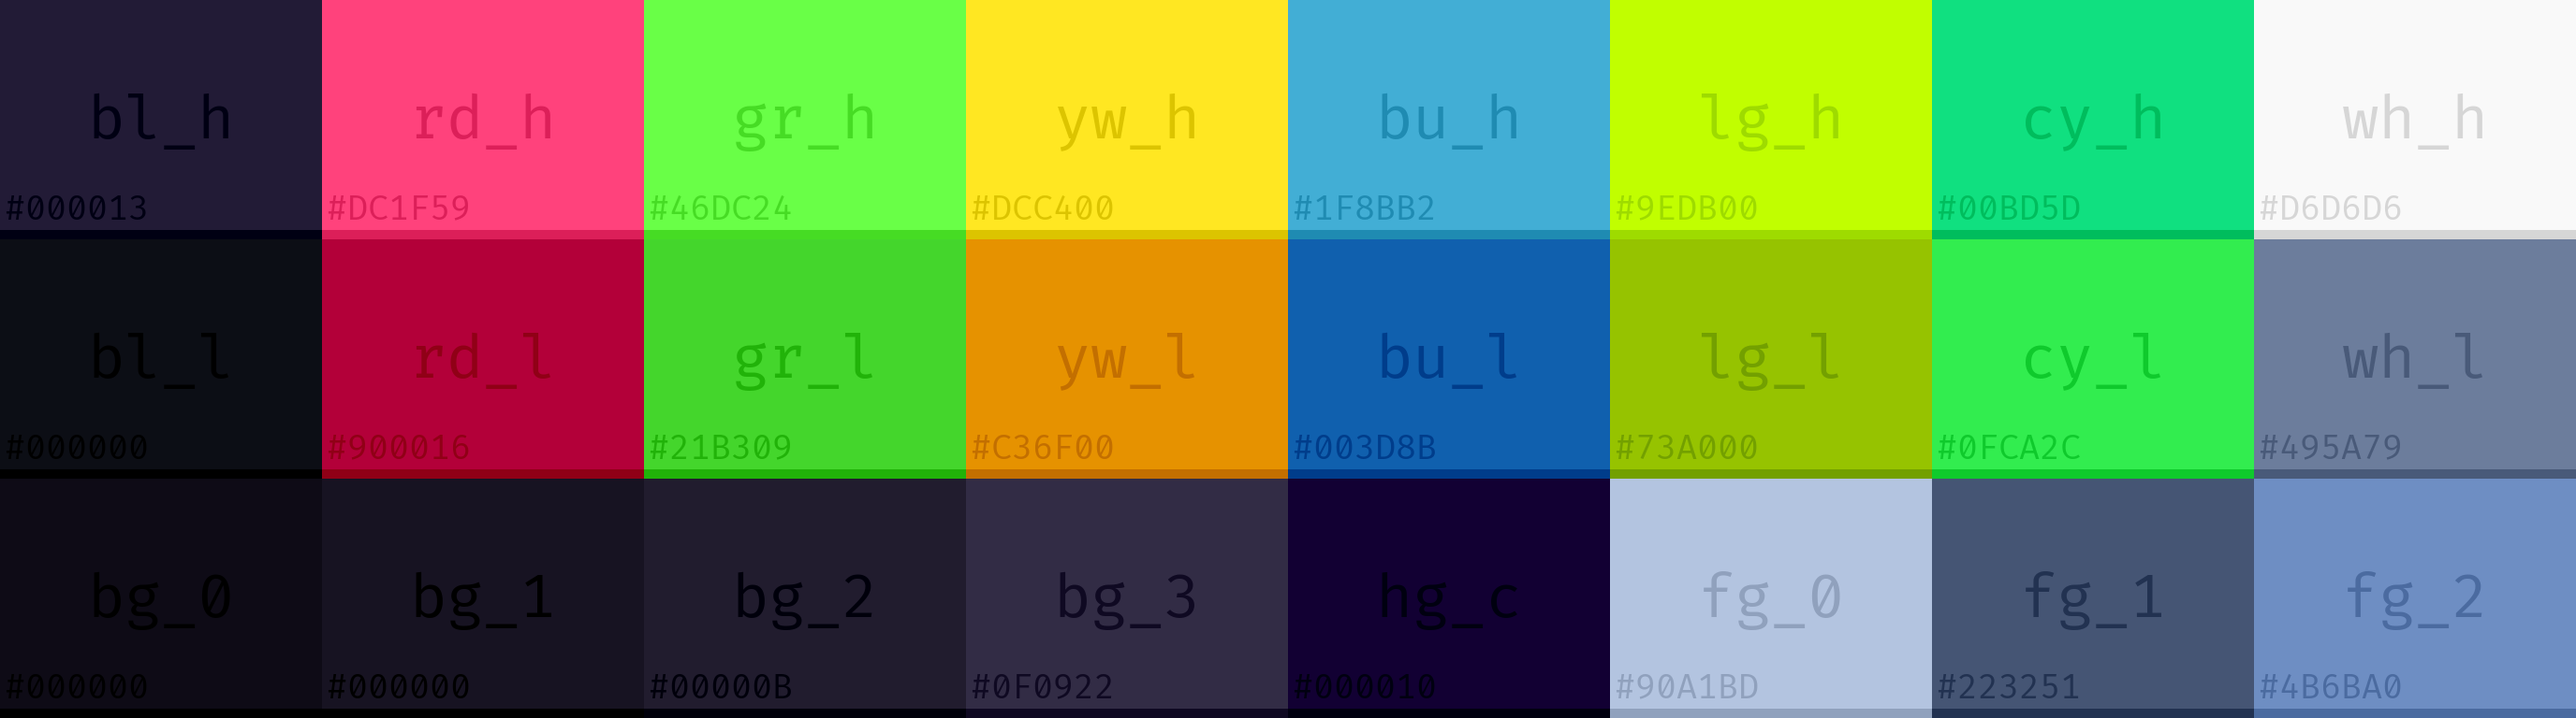
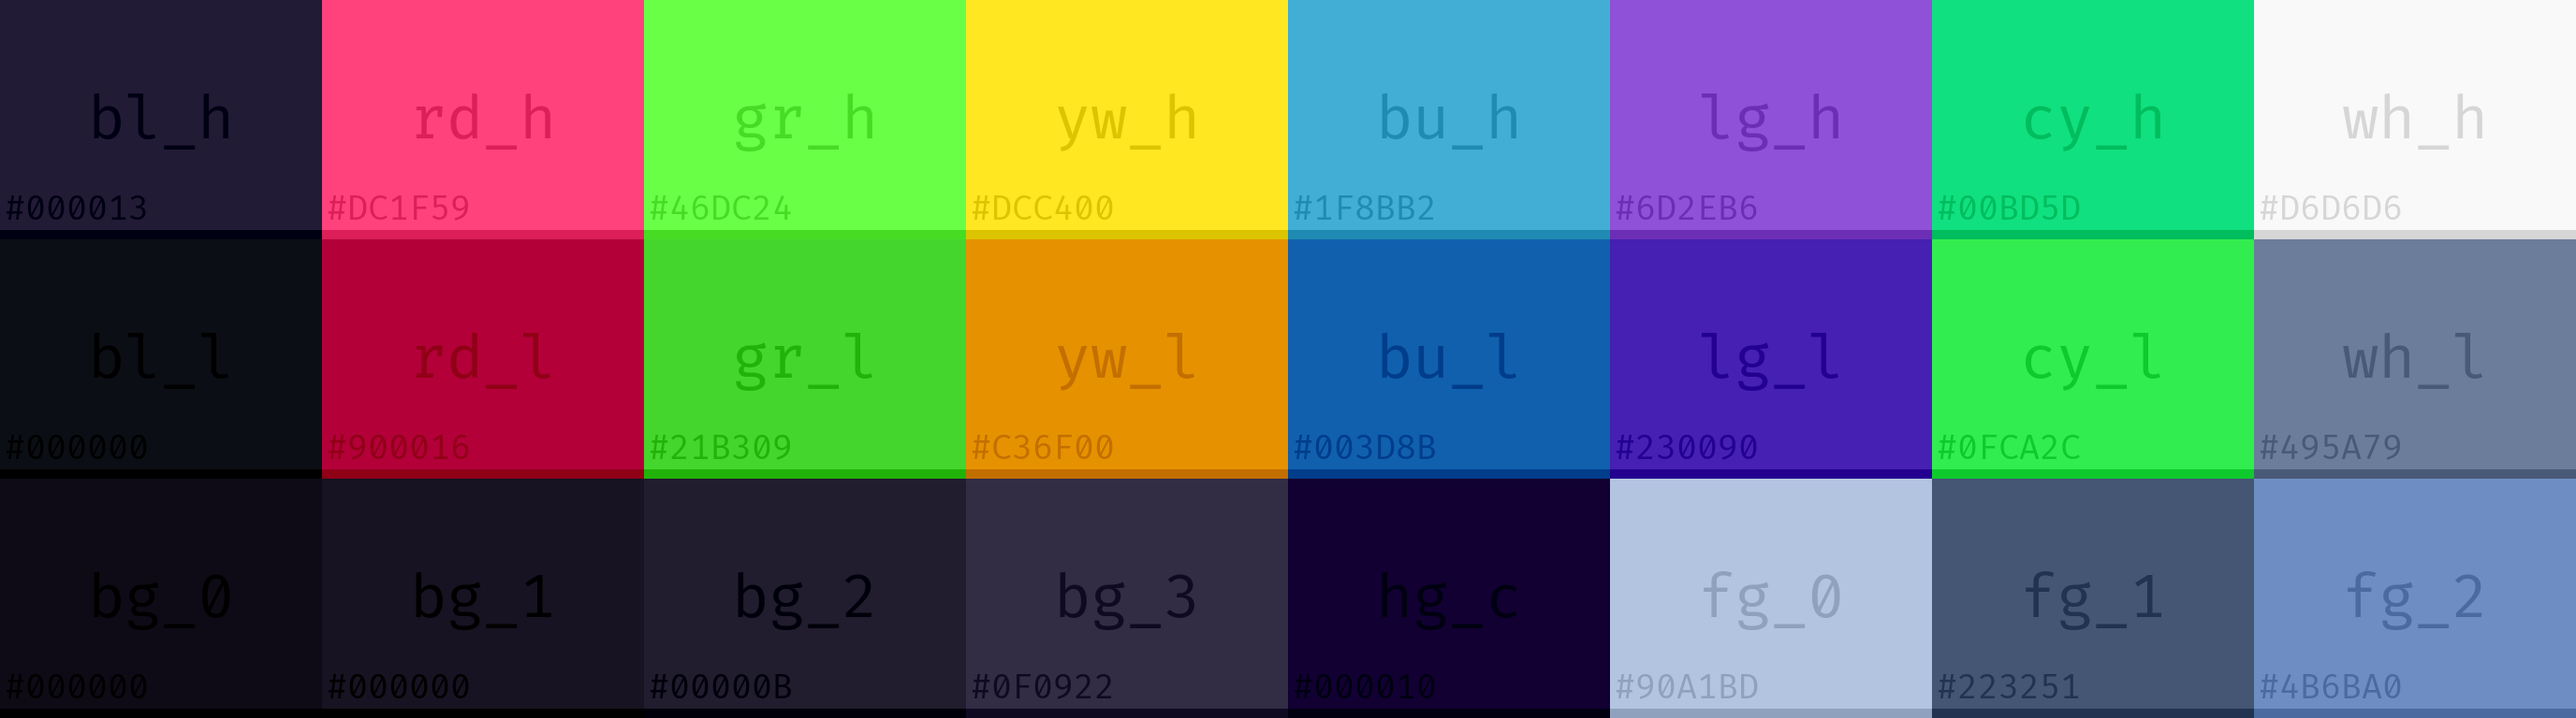
style: reverting LightGreen for Magenta

Changed region(s): [[0.625, 0.0, 0.75, 0.6875]]

diff --git a/.config/palette/palette.py b/.config/palette/palette.py
@@ -13,7 +13,6 @@ def main():
     board = ImageDraw.Draw(template)
         # Pillow does not have a builtin way to acess fonts, a full path must be specified
         # This action can be done using python-fontconfig but wish not to import this library
-            #TODO: find a way a to get a cool looking font automatically
     filename="/usr/share/fonts/TTF/FiraCode-Regular.ttf"
     font_0 = ImageFont.truetype(filename, size=36)
     font_1 = ImageFont.truetype(filename, size=64)
